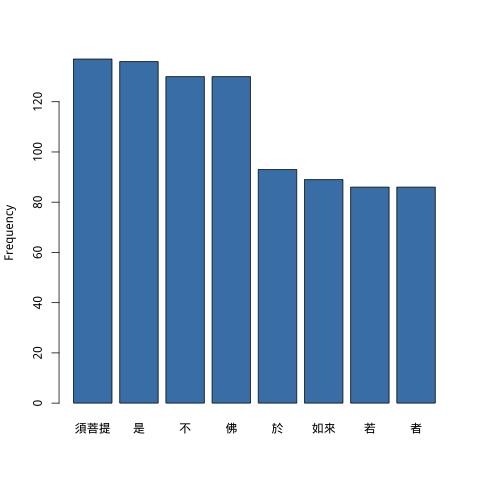
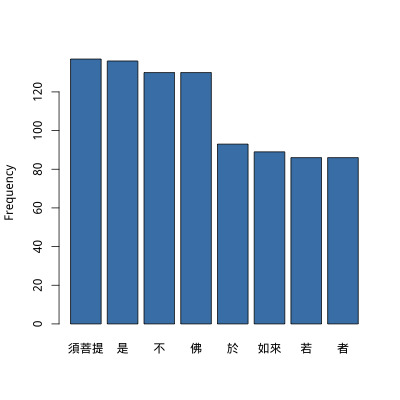
Scripting with R

Changed region(s): [[0.0, 0.12, 0.93, 0.9]]

diff --git a/web/statistics.html b/web/statistics.html
@@ -135,8 +135,10 @@
         Programming in R</i>)
       </p>
       <p>
-        R is a generic statistics platform. In addition, there are a number of packages for R specifically for
-        text analysis. These can be found in the web page 
+        R is a generic statistics platform. It is very handy for working through statistics problems in textbooks
+        and trying stuff out rather than using a piece of paper and calculator or a spreadsheet.
+        In addition, there are a number of packages for R specifically for text analysis. 
+        These can be found in the web page 
         <a href="http://cran.r-project.org/web/packages/available_packages_by_name.html">Available CRAN Packages By Name</a>.
         Some examples are: 
         <a href="http://cran.r-project.org/web/packages/koRpus/index.html">koRpus: An R Package for Text Analysis</a>,
@@ -153,10 +155,10 @@
         <pre>
           $ R
           . . .
-          &gt; names &lt;- c("pos_tagged_text", "element_text", "word_id", "frequency")
+          &gt; names &lt;- c("pos.tagged.text", "element.text", "word.id", "frequency")
           &gt; unigram &lt;- read.table("unigram.txt", header=FALSE, sep="\t", quote="\"", col.names=names, numerals ="allow.loss")
           &gt; head(unigram)
-                       pos_tagged_text element_text word_id frequency
+                       pos.tagged.text element.text word.id frequency
           1 須菩提/NR[xūpútí | Subhuti]        須菩提    6645       137
           2           是/PN[shì | this]           是   17908       136
           3             不/AD[bù | not]           不     502       130
@@ -185,10 +187,10 @@
       </p>
       <p class='formula'>
         <pre>
-          &gt; binames &lt;- c("pos_tagged_text", "previous_text", "element_text", "word_id", "frequency")
+          &gt; binames &lt;- c("pos.tagged.text", "previous.text", "element.text", "word.id", "frequency")
           &gt; bigram &lt;- read.table("bigram.txt", header=FALSE, sep="\t", quote="\"", col.names=binames, numerals ="allow.loss")
           &gt; head(bigram)
-                 pos_tagged_text previous_text element_text word_id frequency
+                 pos.tagged.text previous.text element.text word.id frequency
           1   故/NN[gù | purpose]            以           故    7115        38
           2    以/P[yǐ | because]            何           以   30648        38
           3 云何/DT[yúnhé | what]            意         云何   29319        32
@@ -203,9 +205,8 @@
       </p>
       <p class='formula'>
         <pre>
-          &gt; x &lt;- seq(1, 1432)
-          &gt; plot(x, unigram$frequency, xlab="", ylab="Frequency", type="n")
-          &gt; points(x, unigram$frequency, pch=20, col="blue")
+          &gt; x &lt;- seq(1, length(unigram$frequency))
+          &gt; plot(x, unigram$frequency, xlab="", ylab="Frequency", pch=20, col="blue")
         </pre>
       </p>
       <p>
@@ -220,6 +221,15 @@
       <p class='picture'>
         <img src="images/unigram_frequency.png"/><br/>
         Figure 1: Word Frequency in the unigram Data Frame
+      </p>
+      <p>
+        To generate an image file for that plot and the others in this page, pull the project from GitHub, 
+        change to the top level directory in the project and type the command 
+      </p>
+      <p class='formula'>
+        <pre>
+          $ Rscript r/generate_images.R
+        </pre>
       </p>
       <p>
         This is a useful diagram because it shows the breadth and depth of the corpus at a glance. The corpus
@@ -241,11 +251,9 @@
         <pre>
           &gt; freq &lt;- as.vector(as.matrix(unigram[4])[1:8, 1])
           &gt; freq.labels &lt;- as.vector(as.matrix(unigram[2])[1:8, 1])
-          &gt; png(filename="ungram_barplot.png", width = 480, height = 480)
           &gt; showtext.begin()
           &gt; barplot(freq, names.arg=freq.labels, ylab="Frequency", col="steelblue")
           &gt; showtext.end()
-          &gt; dev.off()
         </pre>
       </p>
       <p>
@@ -274,9 +282,9 @@
       </p>
       <p class='formula'>
         <pre>
-          &gt; fa &lt;- subset(unigram, element_text=="法")
+          &gt; fa &lt;- subset(unigram, element.text=="法")
           &gt; fa
-          pos_tagged_text                 element_text word_id frequency
+                          pos.tagged.text element.text word.id frequency
           10          法/NN[fǎ | a dhárma]           法   17994        74
           1253          法/NR[Fǎ | Dhárma]           法    3509         1
           1376 法/NN[fǎ | a mental object]           法   32204         1
@@ -317,8 +325,8 @@
       </p>
       <p class='formula'>
         <pre>
-          &gt; subset(subset(bigram, element_text=="法"), previous_text=="說")
-                 pos_tagged_text previous_text element_text word_id frequency
+          &gt; subset(subset(bigram, element.text=="法"), previous.text=="說")
+                 pos.tagged.text previous.text element.text word.id frequency
           34 法/NN[fǎ | a dhárma]            說           法   17994         9
         </pre>
       </p>
@@ -549,6 +557,47 @@
         (Knell, <i>Introductory R</i>, 212)
         The sample correlation can be computed using the R function <code>cor()</code>.
       </p>
+     <p>
+        <strong>Example</strong>: Let's find the correlation between text size
+        and the number of unique words in different texts in the corpus.
+        We can load the file corpus_stats.txt, containing the summary statistics of the corpus texts, 
+        print out the first row of data, print a summary of the distribution of unique words,
+        find the correlation, and draw a plot with these R commands.
+      </p>
+      <p class='formula'>
+        <pre>
+          &gt; corpusstats &lt;- read.table("../stats/corpus_stats.txt", sep="\t", quote="\"", numerals ="allow.loss", header=TRUE)
+          &gt; corpusstats[1,]
+                             source.name word.count character.count unique.words
+          1 Diamond Sūtra 金剛般若波羅蜜經       3407            5307          534
+          &gt; summary(corpusstats$unique.words)
+          Min. 1st Qu.  Median    Mean 3rd Qu.    Max. 
+          15.0   122.2   580.5   962.2  1661.0  5145.0 
+          &gt; cor(corpusstats$word.count, corpusstats$unique.words)
+          [1] 0.7266394
+          &gt; plot(corpusstats$word.count, corpusstats$unique.words, xlab="Word Count", ylab="Unique Words", pch=17, col="blue")
+        </pre>
+      </p>
+      <p>
+        This particular file does have column headers in the first row that are automatically used by R 
+        as column names in the data frame.
+        The image generated is shown in Figure 3.
+      </p>
+      <p class='picture'>
+        <img src="images/unique_words.png"/><br/>
+        Figure 3: Variation of Unique Words with Text Size
+      </p>
+      <p>
+        From the correlation value there r = 0.727 there is clearly a correlation between text length and number of 
+        unique words. However, from Figure 3 we can see that it is consistent but not linear. 
+        The number of unique words eventually
+        begins to flatten out with really long texts. Since the set of words in a text may include proper nouns, 
+        such as person and place names, the number of unique words is practically unlimited.
+        It is useful to complate the summary of unique words with the unigram data for the tagged corpus.
+        The third quartile value is 1661, which is greater than the total number of unique words in the 
+        tagged corpus. So, there are at least 25% of the texts in the corpus that have more unique words than 
+        we have word frequency data for. Clearly, we are short of coverage on word frequency.
+      </p>
       <h3><a name="special"></a>Special Distributions</h2>
       <p>
         The <strong>Bernoulli distribution</strong> for random variable X, which can only take the values 0 and 1,
@@ -586,19 +635,17 @@
       <p class='formula'>
         <pre>
          &gt; x &lt;- seq(1, 20)
-         &gt; png(filename="binomial05.png", width = 400, height = 400)
          &gt; plot(x, dbinom(x, 20, 0.5), xlab="x", ylab="Frequency", pch=17, col="blue")
-         &gt; dev.off()
         </pre>
       </p>
       <p>
         The <code>plot()</code> function takes a sequence of integers <code>x</code> from 1 to 20
         and plots the binomial probability for each value.
-        The graph generated is shown in Figure 3.
+        The graph generated is shown in Figure 4.
       </p>
       <p class='picture'>
         <img src="images/binomial05.png"/><br/>
-        Figure 3: Binomial Distribution with Parameters n = 20 and p = 0.5
+        Figure 4: Binomial Distribution with Parameters n = 20 and p = 0.5
       </p>
       <p>
         The <strong>Poisson distribution</strong> for random variable X with mean λ is defined as
@@ -616,17 +663,15 @@
       <p class='formula'>
         <pre>
          &gt; x &lt;- seq(1, 10)
-         &gt; png(filename="poisson_lambda3.png", width = 400, height = 400)
          &gt; plot(x, dpois(x, 3.0), xlab="x", ylab="Frequency", pch=17, col="blue")
-         &gt; dev.off()
         </pre>
       </p>
       <p>
-        The graph generated is shown in Figure 4.
+        The graph generated is shown in Figure 5.
       </p>
       <p class='picture'>
         <img src="images/poisson_lambda3.png"/><br/>
-        Figure 4: Poisson Distribution with λ = 3.0
+        Figure 5: Poisson Distribution with λ = 3.0
       </p>
       <p>
         The <strong>normal distribution</strong> for the continuous random variable X with mean μ and 
@@ -644,11 +689,11 @@
         </pre>
       </p>
       <p>
-        The graph generated is shown in Figure 5.
+        The graph generated is shown in Figure 6.
       </p>
       <p class='picture'>
         <img src="images/standard_normal.png"/><br/>
-        Figure 5: Standard Normal Distribution
+        Figure 6: Standard Normal Distribution
       </p>
       <p>
         The normal distribution is a good approximation for variables in many random processes.
@@ -689,11 +734,11 @@
         </pre>
       </p>
       <p>
-        The generated graph is shown in Figure 6.
+        The generated graph is shown in Figure 7.
       </p>
       <p class='picture'>
         <img src="images/exponential_distribution08.png"/><br/>
-        Figure 6: Exponential Distribution (β = 0.8)
+        Figure 7: Exponential Distribution (β = 0.8)
       </p>
       <p>
         The <strong>beta distribution</strong> for the continuous random variable X with parameters α and β is
@@ -732,7 +777,7 @@
         The multinomial distribution is appropriate for distributions into sets that are not necessarily numbers,
         for example, the frequencies of words of different part of speech values.
       </p>
-      <h3><a name="estimation"></a>Statistical Estimation</h3>
+       <h3><a name="estimation"></a>Statistical Estimation</h3>
       <p>
         A <strong>statistical model</strong> is a collection of random variables, identification of probability
         distributions for the variables, and the set of parameters that the distributions require values for.
@@ -807,8 +852,40 @@
         This approach avoids the need to assume a probability distribution for θ. However, the drawback is that
         is may not always give a good estimate for θ and sometimes it may not exist at all.
       </p>
-      <h3><a name="references"></a>References</h3>
       <h3><a name="linear"></a>Linear Regression</h3>
+      <p>
+        <strong>Linear regression</strong> is a method finding a statistical best fit for a line against a set of data.
+        (Knell, <i>Introductory R</i>, 224)
+      </p>
+     <p>
+        <strong>Example</strong>: We saw above that there was a correlation between text size
+        and the number of unique words in different texts in the corpus.
+        However, it was not linear. It turns out that we can get a more linear relation in log space.
+        The following R commands do a linear regression analysis on the log of the log of the 
+        word count versus the log of the count of unique words and plot the line of best
+        fit on the graph with the data points.
+      </p>
+      <p class='formula'>
+        <pre>
+          &gt; x &lt;- log(corpusstats$word.count)
+          &gt; y &lt;- log(corpusstats$unique.words)
+          &gt; unique.lm &lt;- lm(y ~ x)
+          &gt; plot(x, y, xlab="Log Word Count", ylab="Log Unique Words", pch=17, col="blue")
+          &gt; abline(unique.lm)
+        </pre>
+      </p>
+      <p>
+        The R function <code>lm(y ~ x)</code> performs a linear regression of <code>y</code>
+        as a function of <code>x</code>.
+        The function <code>abline()</code> takes the output of the linear regression and adds
+        it to the plot.
+        The graph generated is shown in Figure 8.
+      </p>
+      <p class='picture'>
+        <img src="images/log_unique_words.png"/><br/>
+        Figure 8: Linear Regression of Log Count of Unique Words versus Log of Text Length
+      </p>
+      <h3><a name="references"></a>References</h3>
       <ol>
         <li>
           Amies, Alex. NTI Buddhist Text Reader GitHub Project, 2014. 
